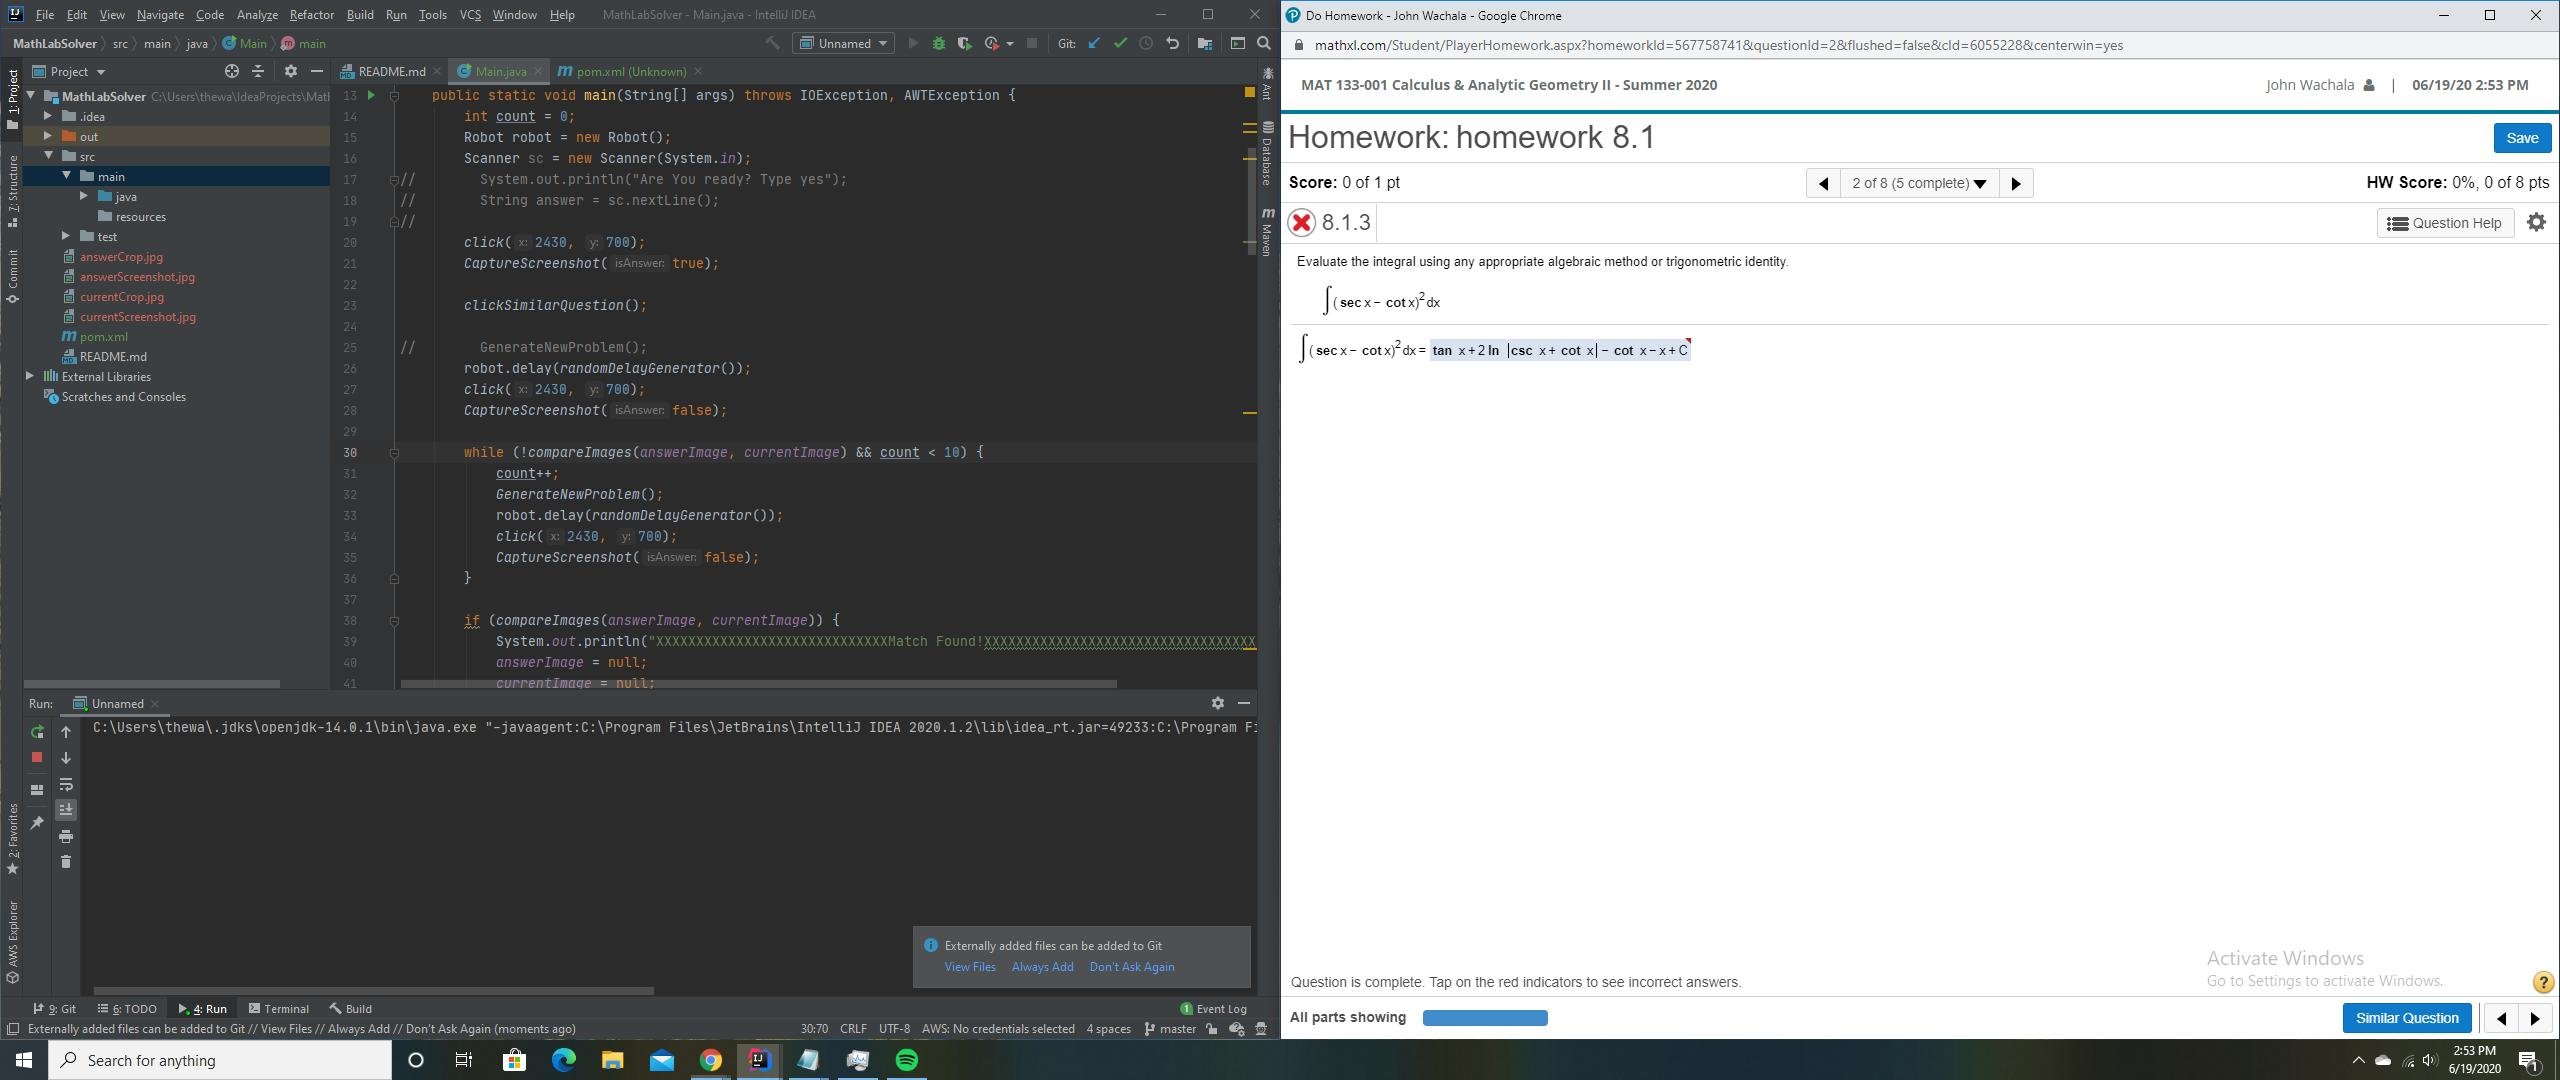
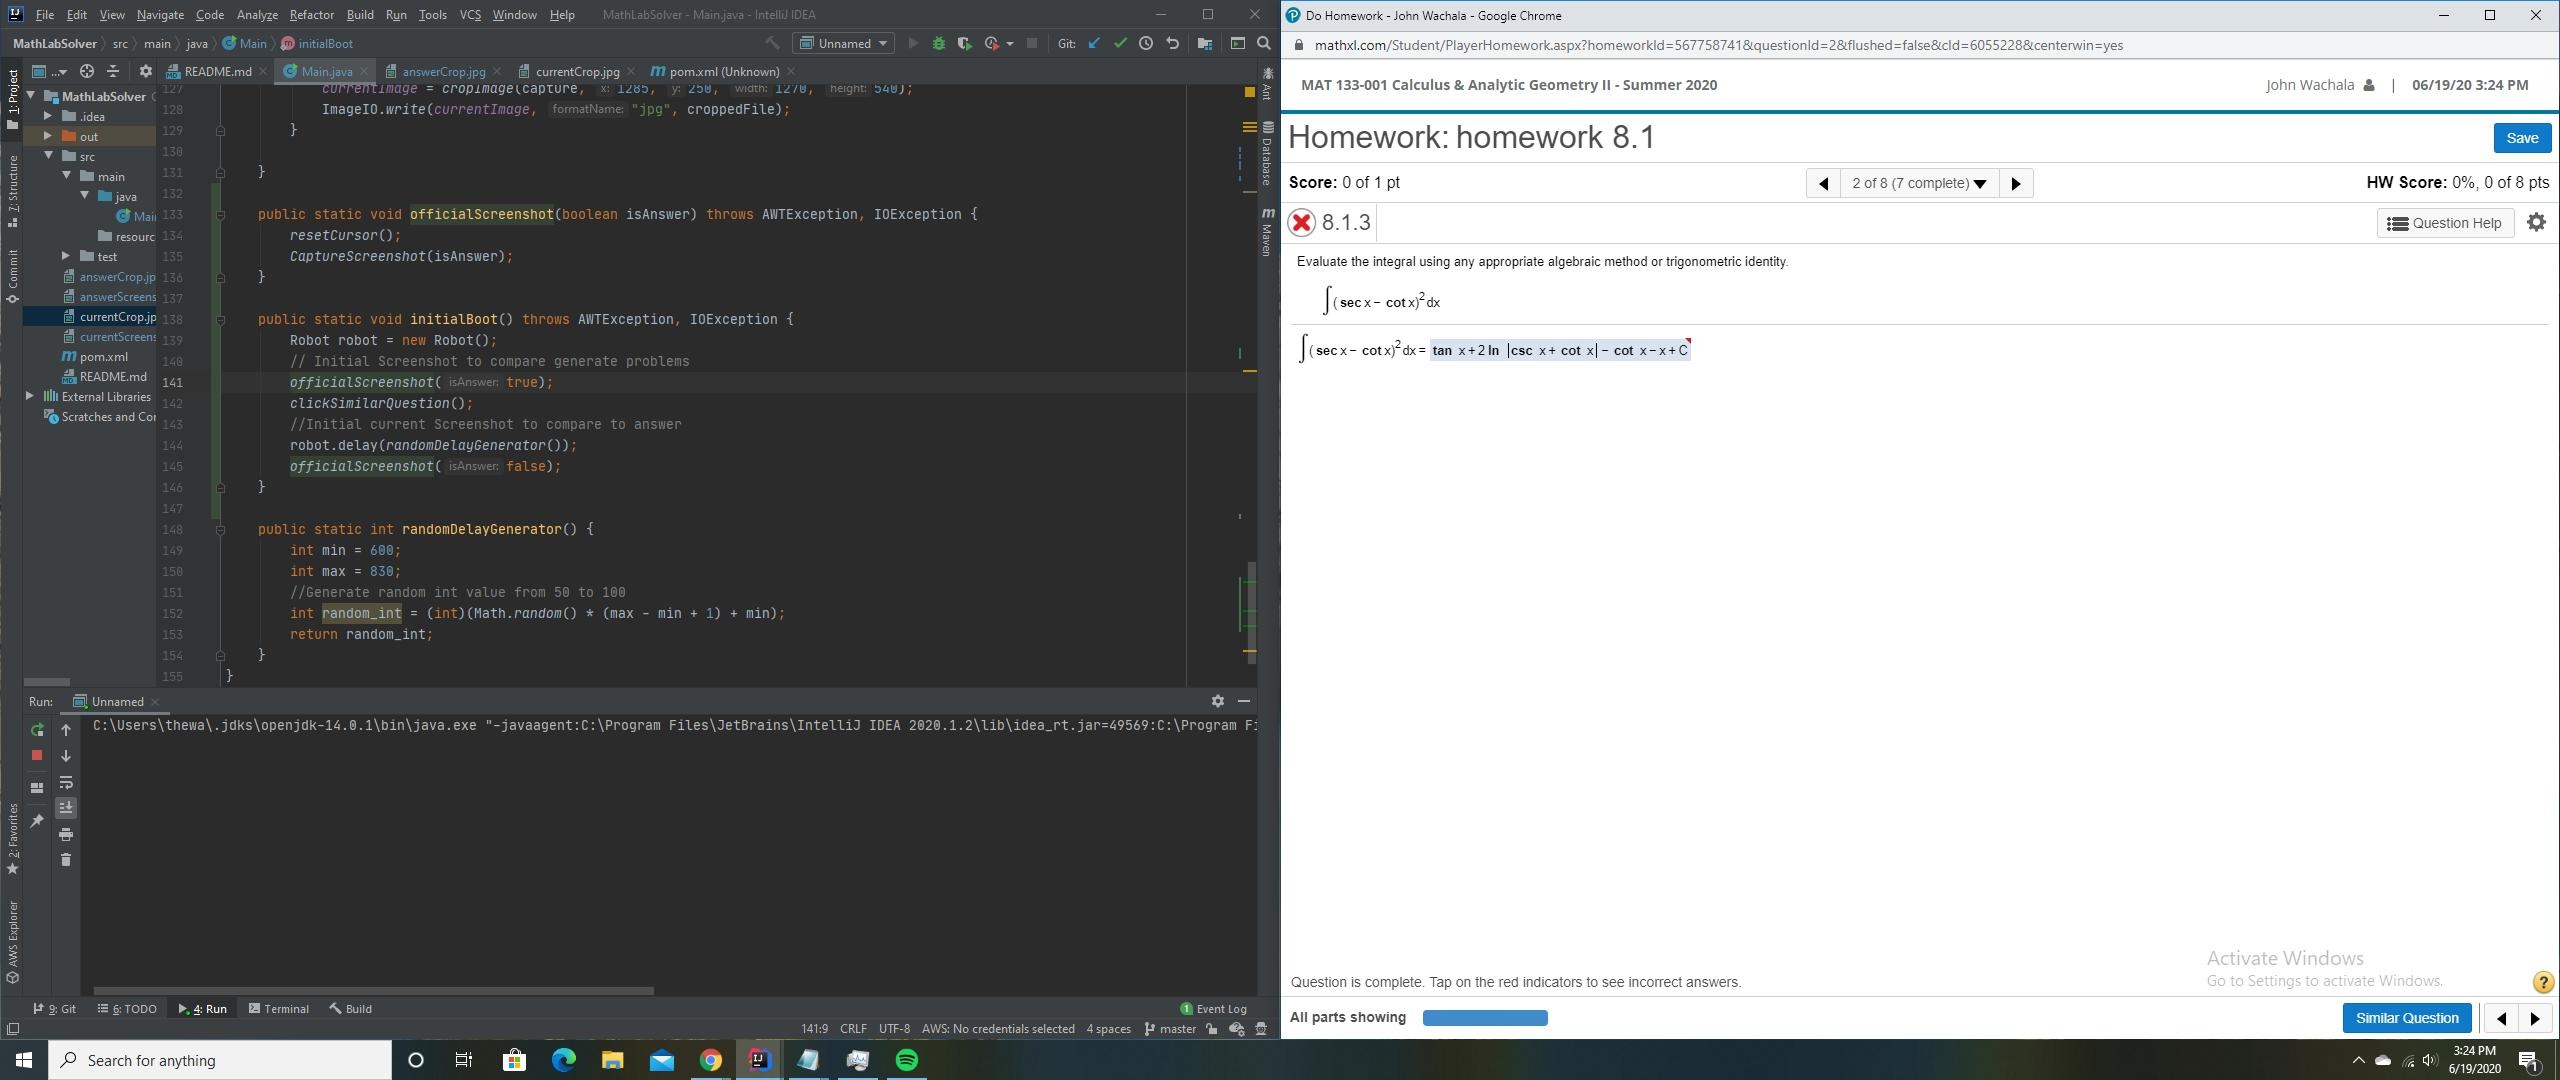
cleaned up code into methods

diff --git a/src/main/java/Main.java b/src/main/java/Main.java
@@ -11,27 +11,15 @@ public class Main {
     private static BufferedImage answerImage;
     private static BufferedImage currentImage;
     public static void main(String[] args) throws IOException, AWTException {
-        int count = 0;
+        int problemsAnalyzed = 0;
         Robot robot = new Robot();
-        Scanner sc = new Scanner(System.in);
-//        System.out.println("Are You ready? Type yes");
-//        String answer = sc.nextLine();
-//
-        click(2430, 700);
-        CaptureScreenshot(true);
+        initialBoot();
 
-        clickSimilarQuestion();
-
-//        GenerateNewProblem();
-        robot.delay(randomDelayGenerator());
-        click(2430, 700);
-        CaptureScreenshot(false);
-
-        while (!compareImages(answerImage, currentImage) && count < 10) {
-            count++;
+        while (!compareImages(answerImage, currentImage) && problemsAnalyzed < 20) {
+            problemsAnalyzed++;
             GenerateNewProblem();
             robot.delay(randomDelayGenerator());
-            click(2430, 700);
+            resetCursor();
             CaptureScreenshot(false);
         }
 
@@ -79,6 +67,10 @@ public class Main {
         clickCloseHelpSolve();
     }
 
+    public static void resetCursor() throws AWTException {
+        click(2430, 700);
+    }
+
     public static BufferedImage cropImage(BufferedImage bufferedImage, int x, int y, int width, int height) {
         BufferedImage croppedImage = bufferedImage.getSubimage(x, y, width, height);
         return croppedImage;
@@ -120,7 +112,6 @@ public class Main {
     public static void CaptureScreenshot(boolean isAnswer) throws AWTException, IOException {
         Rectangle screenRect = new Rectangle(Toolkit.getDefaultToolkit().getScreenSize());
         BufferedImage capture = new Robot().createScreenCapture(screenRect);
-//        System.out.println("screenshot captured");
         if (isAnswer) {
             File outputfile = new File("answerScreenshot.jpg");
             ImageIO.write(capture, "jpg", outputfile);
@@ -138,6 +129,22 @@ public class Main {
         }
 
     }
+
+    public static void officialScreenshot(boolean isAnswer) throws AWTException, IOException {
+        resetCursor();
+        CaptureScreenshot(isAnswer);
+    }
+
+    public static void initialBoot() throws AWTException, IOException {
+        Robot robot = new Robot();
+        // Initial Screenshot to compare generate problems
+        officialScreenshot(true);
+        clickSimilarQuestion();
+        //Initial current Screenshot to compare to answer
+        robot.delay(randomDelayGenerator());
+        officialScreenshot(false);
+    }
+
     public static int randomDelayGenerator() {
         int min = 600;
         int max = 830;
